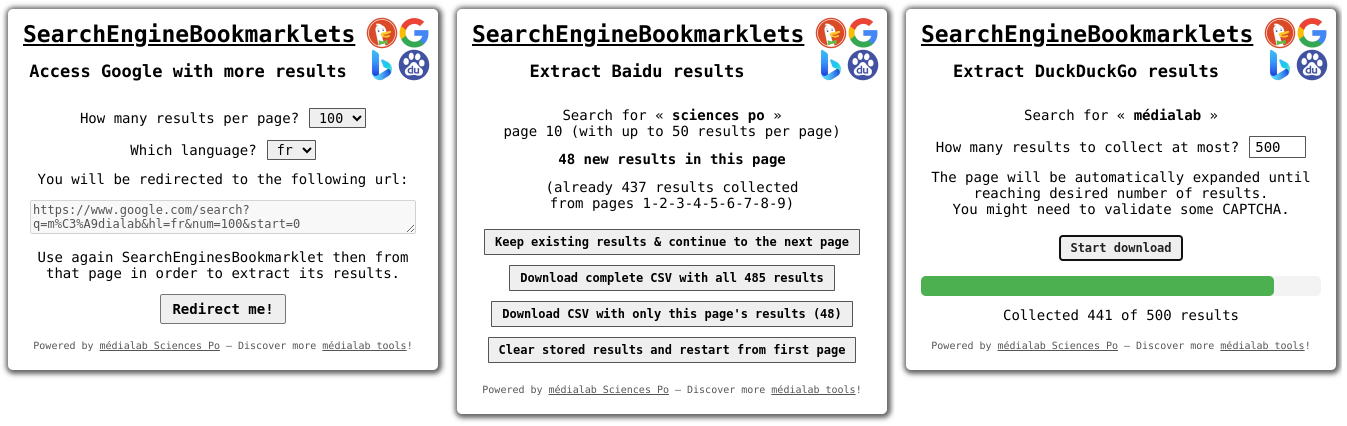
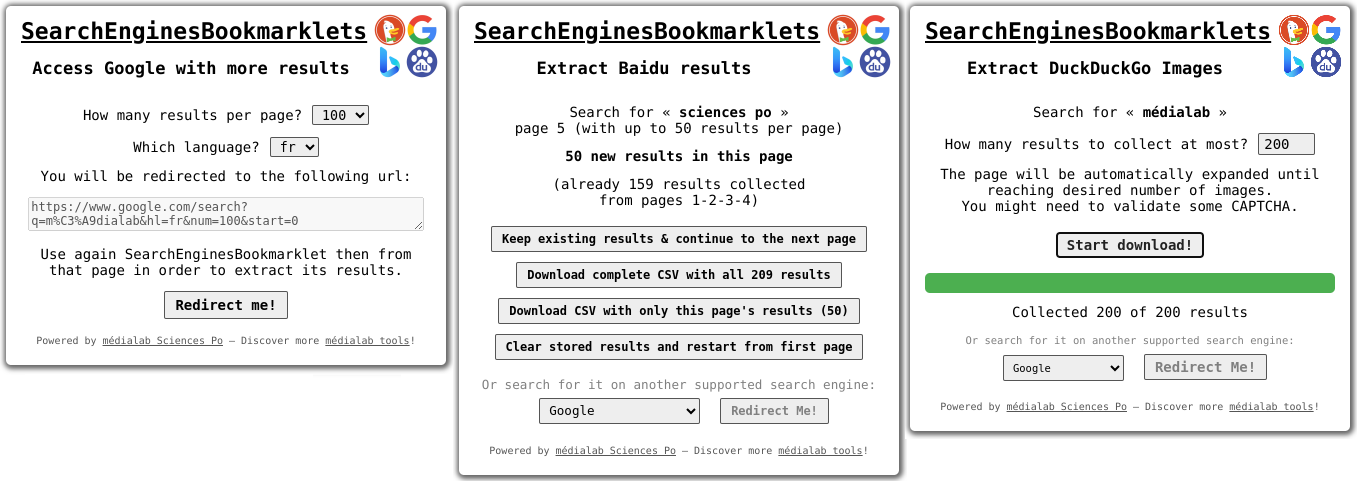
missing S + redo screenshots

Changed region(s): [[0.0, 0.0, 1.0, 1.0], [0.3742, 0.2136, 0.6236, 0.3357]]

diff --git a/extract_image_results.js b/extract_image_results.js
@@ -1,14 +1,14 @@
 (async function(){
     artoo.injectScript("//medialab.github.io/SearchEnginesBookmarklet/FileSaver.min.js", function() {
-      artoo.injectScript("//medialab.github.io/SearchEnginesBookmarklet/dropdown.js", function() {
-      // artoo.injectScript("//localhost:4443/dropdown.js", function() {
+      //artoo.injectScript("//medialab.github.io/SearchEnginesBookmarklet/dropdown.js", function() {
+       artoo.injectScript("//localhost:4443/dropdown.js", function() {
 
         var loc = window.location,
           href = loc.href,
           query = (~href.search(/[#?&]q=/) ? href.replace(/^.*[#?&]q=([^#?&]+).*$/, '$1') : undefined),
           search = ~href.search(/:\/\/([^.]+\.)?google\.[^/]+\//) ? 'Google Images' : 'DuckDuckGo Images',
           styles = [
-            '#BMoverlay {z-index: 1000000; position: fixed; top: 150px; right: 10px; background-color: white; width: 400px; border-radius: 5px; box-shadow: 1px 1px 5px 3px #656565; padding: 15px; text-align: center; color: black; font-family: monospace; box-sizing: content-box; text-rendering: geometricprecision;}',
+            '#BMoverlay {z-index: 1000000; position: fixed; top: 150px; right: 10px; background-color: white; width: 410px; border-radius: 5px; box-shadow: 1px 1px 5px 3px #656565; padding: 15px; text-align: center; color: black; font-family: monospace; box-sizing: content-box; text-rendering: geometricprecision;}',
             '#BMoverlay h1 {display: block; font-size: 23px; font-weight: bold; margin: 0px 70px 15px 0px; padding: 0; line-height: 22px; text-decoration: underline; font-family: monospace; box-sizing: content-box;}',
             '#BMoverlay #BMlogo {position: absolute; top: 8px; right: 8px; width: 64px; height: 64px;}',
             '#BMoverlay h2 {display: block; font-size: 17px; font-weight: bold; margin: 0px 70px 25px 0px; padding: 0; line-height: 22px; font-family: monospace;}',
@@ -140,7 +140,7 @@
         artoo.$('body').append(
           '<style>' + styles.join('\n') + '</style>' +
           '<div id="BMoverlay">' +
-            '<h1>SearchEngineBookmarklets</h1>' +
+            '<h1>SearchEnginesBookmarklets</h1>' +
             '<img id="BMlogo" src="https://medialab.github.io/SearchEnginesBookmarklet/images/duckduckgo-google-bing-baidu-256.png" alt="SEB logo" />' +
             '<h2>Extract ' + search + '</h2>' +
             '<p>Search for «&nbsp;<b id="BMquery">' + decodeURIComponent(query.replace(/\+/g, '%20')) + '</b>&nbsp;»</p>' +

diff --git a/extract_autoscroll_results.js b/extract_autoscroll_results.js
@@ -16,7 +16,7 @@
           search = ~href.search(/:\/\/([^.]+\.)?qwant\.[^/]+\//) ? 'Qwant' : 'DuckDuckGo',
           hlang = navigator.language.replace(/-.*$/, ''),
           styles = [
-            '#BMoverlay {z-index: 1000000; position: fixed; top: 150px; right: 10px; background-color: white; width: 400px; border-radius: 5px; box-shadow: 1px 1px 5px 3px #656565; padding: 15px; text-align: center; color: black; font-family: monospace; box-sizing: content-box; text-rendering: geometricprecision;}',
+            '#BMoverlay {z-index: 1000000; position: fixed; top: 150px; right: 10px; background-color: white; width: 410px; border-radius: 5px; box-shadow: 1px 1px 5px 3px #656565; padding: 15px; text-align: center; color: black; font-family: monospace; box-sizing: content-box; text-rendering: geometricprecision;}',
             '#BMoverlay h1 {display: block; font-size: 23px; font-weight: bold; margin: 0px 70px 15px 0px; padding: 0; line-height: 22px; text-decoration: underline; font-family: monospace; box-sizing: content-box;}',
             '#BMoverlay #BMlogo {position: absolute; top: 8px; right: 8px; width: 64px; height: 64px;}',
             '#BMoverlay h2 {display: block; font-size: 17px; font-weight: bold; margin: 0px 70px 25px 0px; padding: 0; line-height: 22px; font-family: monospace;}',
@@ -175,7 +175,7 @@
         artoo.$('body').append(
           '<style>' + styles.join('\n') + '</style>' +
           '<div id="BMoverlay">' +
-            '<h1>SearchEngineBookmarklets</h1>' +
+            '<h1>SearchEnginesBookmarklets</h1>' +
             '<img id="BMlogo" src="https://medialab.github.io/SearchEnginesBookmarklet/images/duckduckgo-google-bing-baidu-256.png" alt="SEB logo" />' +
             '<h2>Extract ' + search + ' results</h2>' +
             '<p>Search for «&nbsp;<b id="BMquery">' + decodeURIComponent(query.replace(/\+/g, '%20')) + '</b>&nbsp;»</p>' +

diff --git a/extract_pagination_results.js b/extract_pagination_results.js
@@ -15,7 +15,7 @@
           timeGaps = {},
           query, hlang, total, start, search, nextPageLink,
           styles = [
-            '#BMoverlay {z-index: 1000000; position: fixed; top: 150px; right: 10px; background-color: white; width: 400px; border-radius: 5px; box-shadow: 1px 1px 5px 3px #656565; padding: 15px; text-align: center; color: black; font-family: monospace; box-sizing: content-box; text-rendering: geometricprecision;}',
+            '#BMoverlay {z-index: 1000000; position: fixed; top: 150px; right: 10px; background-color: white; width: 410px; border-radius: 5px; box-shadow: 1px 1px 5px 3px #656565; padding: 15px; text-align: center; color: black; font-family: monospace; box-sizing: content-box; text-rendering: geometricprecision;}',
             '#BMoverlay h1 {display: block; font-size: 23px; font-weight: bold; margin: 0px 70px 15px 0px; padding: 0; line-height: 22px; text-decoration: underline; font-family: monospace; box-sizing: content-box;}',
             '#BMoverlay #BMlogo {position: absolute; top: 8px; right: 8px; width: 64px; height: 64px;}',
             '#BMoverlay h2 {display: block; font-size: 17px; font-weight: bold; margin: 0px 70px 25px 0px; padding: 0; line-height: 22px; font-family: monospace;}',
@@ -274,7 +274,7 @@
         artoo.$('body').append(
           '<style>' + styles.join('\n') + '</style>' +
           '<div id="BMoverlay">' +
-            '<h1>SearchEngineBookmarklets</h1>' +
+            '<h1>SearchEnginesBookmarklets</h1>' +
             '<img id="BMlogo" src="https://medialab.github.io/SearchEnginesBookmarklet/images/duckduckgo-google-bing-baidu-256.png" alt="SEB logo" />' +
             '<h2>Extract ' + search + ' results</h2>' +
             '<p>Search for «&nbsp;<b>' + decodeURIComponent(query.replace(/\+/g, '%20')) + '</b>&nbsp;»<br/>' +

diff --git a/switch_more_results.js b/switch_more_results.js
@@ -3,7 +3,7 @@
     href = loc.href,
     search,
     styles = [
-      '#BMoverlay {z-index: 1000000; position: fixed; top: 150px; right: 10px; background-color: white; width: 400px; border-radius: 5px; box-shadow: 1px 1px 5px 3px #656565; padding: 15px; text-align: center; color: black; font-family: monospace; box-sizing: content-box; text-rendering: geometricprecision;}',
+      '#BMoverlay {z-index: 1000000; position: fixed; top: 150px; right: 10px; background-color: white; width: 410px; border-radius: 5px; box-shadow: 1px 1px 5px 3px #656565; padding: 15px; text-align: center; color: black; font-family: monospace; box-sizing: content-box; text-rendering: geometricprecision;}',
       '#BMoverlay h1 {display: block; font-size: 23px; font-weight: bold; margin: 0px 70px 15px 0px; padding: 0; line-height: 22px; text-decoration: underline; font-family: monospace; box-sizing: content-box;}',
       '#BMoverlay #BMlogo {position: absolute; top: 8px; right: 8px; width: 64px; height: 64px;}',
       '#BMoverlay h2 {display: block; font-size: 17px; font-weight: bold; margin: 0px 70px 25px 0px; padding: 0; line-height: 22px; font-family: monospace;}',
@@ -40,7 +40,7 @@
   artoo.$('body').append(
     '<style>' + styles.join('\n') + '</style>' +
     '<div id="BMoverlay">' +
-      '<h1>SearchEngineBookmarklets</h1>' +
+      '<h1>SearchEnginesBookmarklets</h1>' +
       '<img id="BMlogo" src="https://medialab.github.io/SearchEnginesBookmarklet/images/duckduckgo-google-bing-baidu-256.png" alt="SEB logo" />' +
       '<h2>Access ' + search + ' with more results</h2>' +
       '<p>How many results per page?' +
